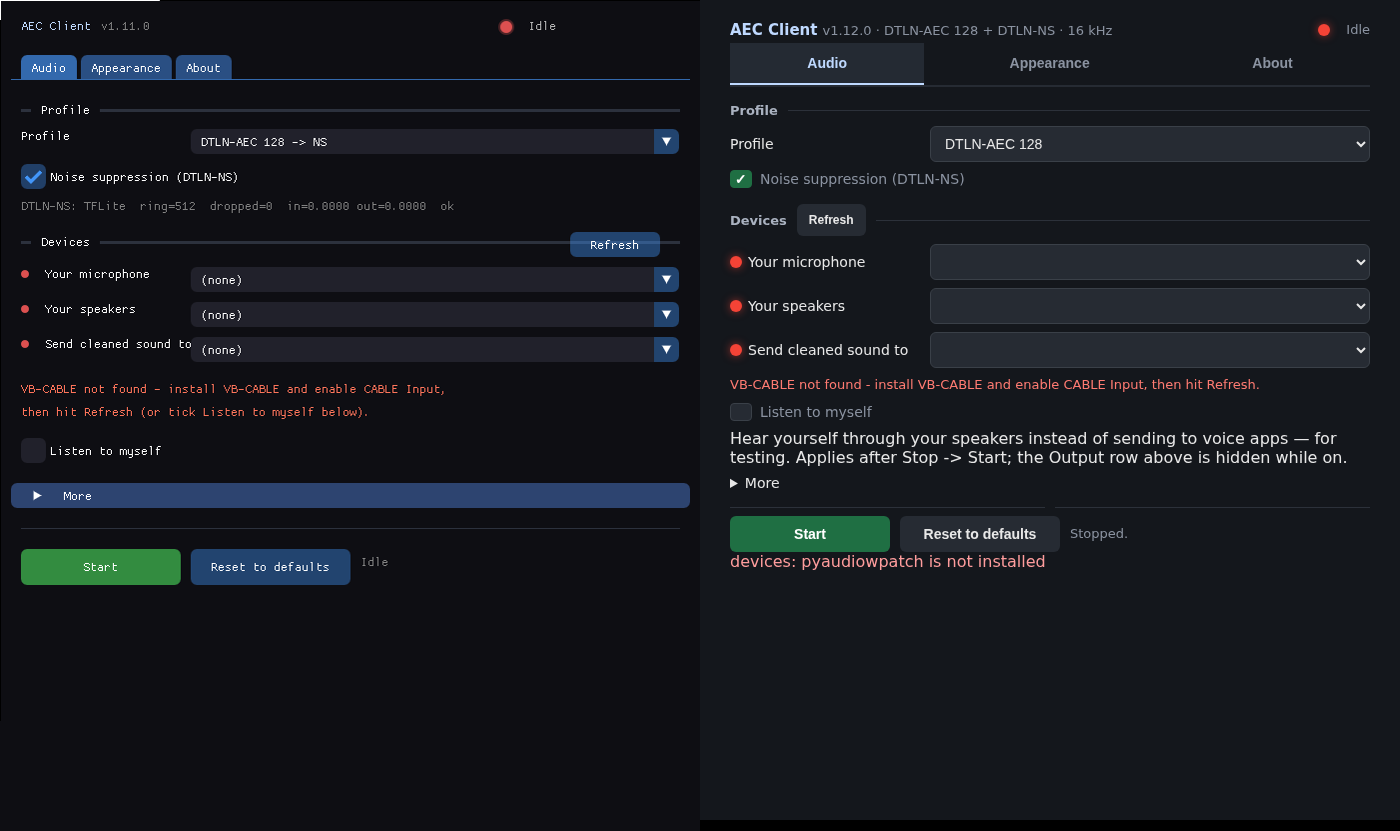
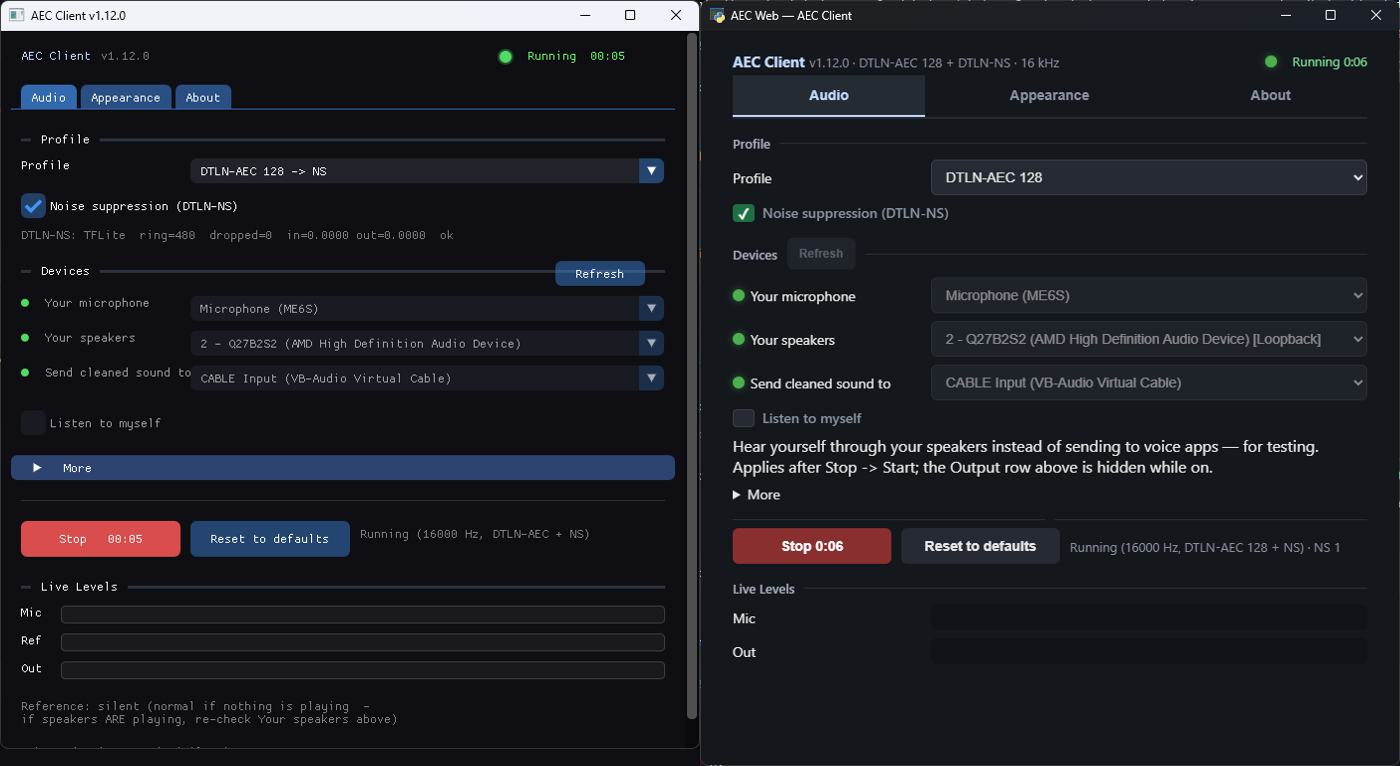
docs: v1.12.0 doc pass + side-by-side desktop/web screenshots

diff --git a/README.md b/README.md
@@ -2,7 +2,7 @@
 
 > Real-time acoustic echo cancellation for Windows — use speakers and a microphone at the same time in Discord, Zoom, Teams, or any other voice app.
 
-![AEC Client — desktop app (left) and web UI (right), same Idle state](screenshots/desktop-and-web.png)
+![AEC Client — desktop app (left) and web UI (right), same Running state](screenshots/desktop-and-web.png)
 
 *Left: desktop `aec_gui.exe`. Right: web UI served from this repo (`web/start.bat`). Same three profiles, same chain, same telemetry — pick the window you prefer.*
 
